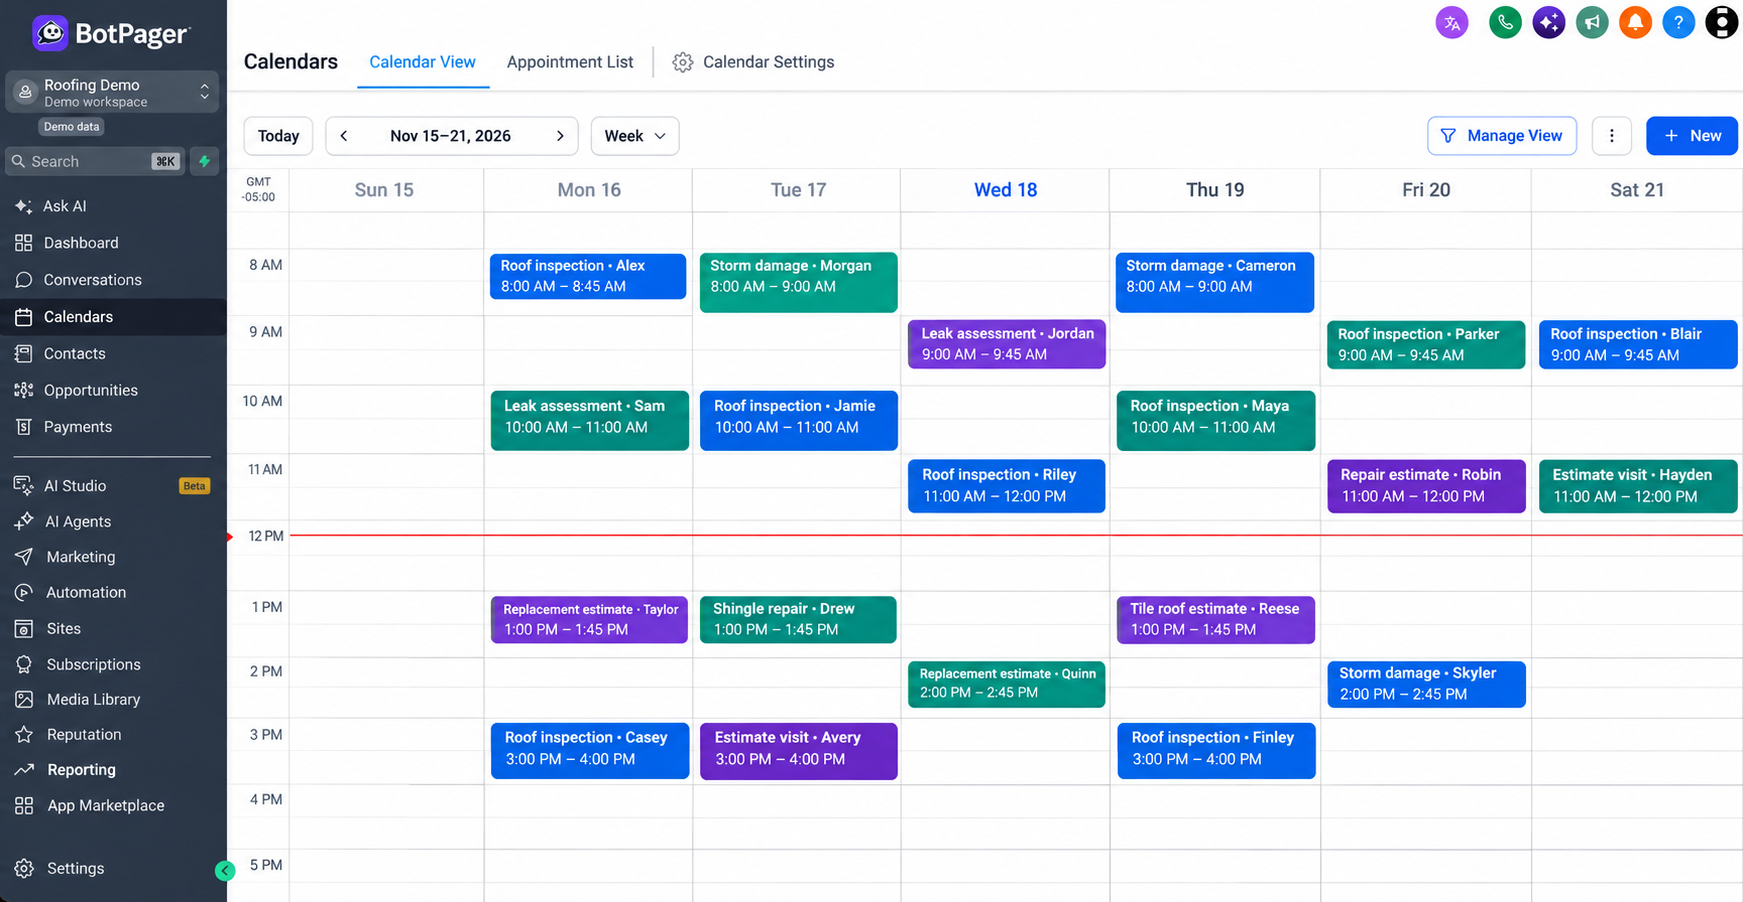
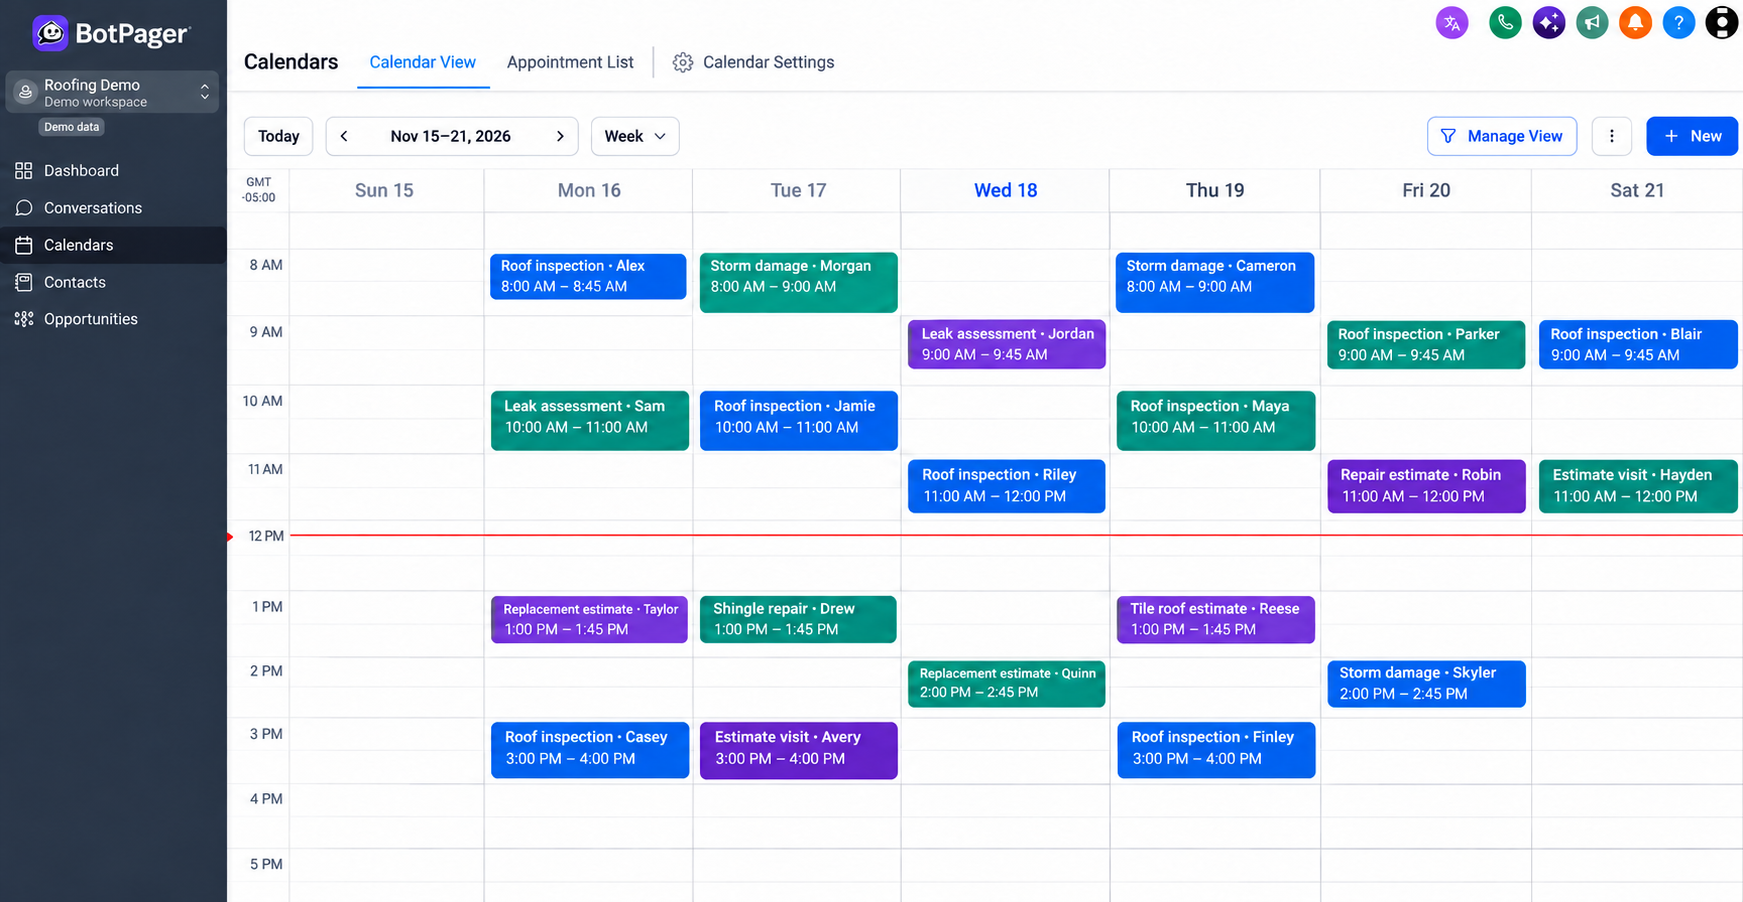
Limit roofing demo screenshot navigation to included features

diff --git a/docs/roofing-dashboard-demo-assets.md b/docs/roofing-dashboard-demo-assets.md
@@ -7,7 +7,9 @@ Created with the built-in image generation/editing tool from user-supplied BotPa
 
 All customer names and bookings are fictional. The contact email uses example.com and the phone uses the reserved fictional 555-01xx range. Both website captions and images identify the data as demo data.
 
-## Prompts
+Current revision: the left navigation shows only Dashboard, Conversations, Calendars, Contacts and Opportunities, matching the simplified feature scope requested for the landing. Other sidebar features and controls were removed from both screenshots using the built-in image editing tool.
+
+## Original creation prompts
 
 Source personal identifiers mentioned solely for removal are omitted from this prompt record.
 
@@ -46,4 +48,24 @@ Agent, 6:47 PM: "You're booked for Thursday at 10:00 AM. I'll send your confirma
 Small system status after messages: "Roof inspection booked · Thu, Nov 19 · 10:00 AM".
 Composer placeholder "Type a message". Do not show chat-ended or inactive warnings.
 Right panel heading "Contact Details", name "Maya Brooks", owner "Roofing Team", tag "Inspection booked". Tabs "All Fields", "DND", "Actions". Fields "First name" Maya, "Last name" Brooks, "Email" maya.brooks@example.com, "Phone" (407) 555-0142, "Lead source" Website chat, "Service" Roof inspection, "Appointment" Thu, Nov 19 · 10:00 AM. This is entirely fictional demo data. No other contact identifiers. Crisp legible UI text, all English, faithful actual panel design, no invented controls or performance claims.
+
+## Latest edit: simplified sidebar
+
+Use case: precise-object-edit.
+Edit target: the supplied English BotPager demo screenshot.
+Make exactly one localized change: simplify ONLY the dark left navigation sidebar. Preserve the image's exact canvas size, crop, proportions and all pixels/content outside that sidebar as closely as possible. Do not redesign or regenerate the main workspace.
+Keep the BotPager logo, "Roofing Demo" account selector, "Demo workspace" subtitle and "Demo data" label in their current positions.
+Below the account selector, show ONLY these FIVE navigation items, with their existing icon style and the same typeface, aligned and evenly spaced:
+"Dashboard"
+"Conversations"
+"Calendars"
+"Contacts"
+"Opportunities"
+Keep the selected item matching the supplied screen: Calendars on the calendar screenshot, Conversations on the conversation screenshot.
+Remove the Search box, Ask AI, Payments, AI Studio/Beta, AI Agents, Marketing, Automation, Sites, Subscriptions, Media Library, Reputation, Reporting, App Marketplace, Settings and every other sidebar item. Also remove the bottom green collapse control. Fill all removed space seamlessly with the original uniform dark slate sidebar background. No replacement features, placeholders, separators, badges or extra links. The sidebar should look clean and deliberately limited to those five product features.
+CRITICAL INVARIANTS: Preserve all content to the right of the sidebar, including top navigation tabs and colored utility icons, all English text, every fictional appointment and its time/name/color, all fictional chat messages and contact details, the booking confirmation, dates, positions and grid lines. Do not add, remove, rewrite or duplicate anything in the calendar or conversations area. Preserve the demo labels and fictional data. No new real personal data. Only the left sidebar changes.
+
+Calendar-specific instruction: This is the CALENDAR image. Calendars must be the only selected sidebar item.
+
+Conversations-specific instruction: This is the CONVERSATIONS image. Conversations must be the only selected sidebar item.
 
